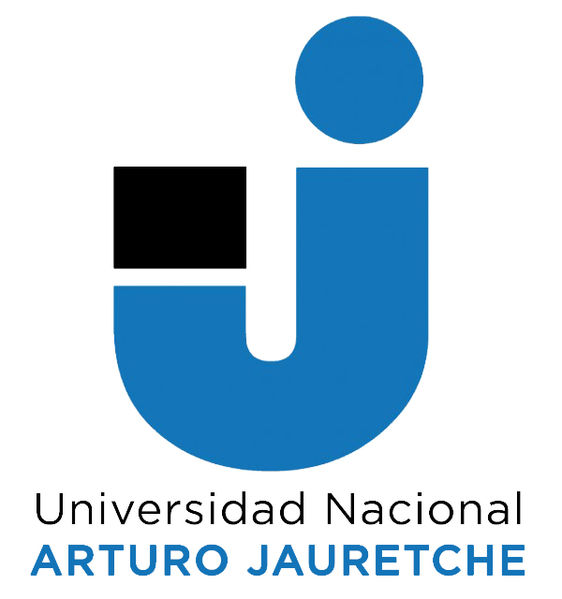
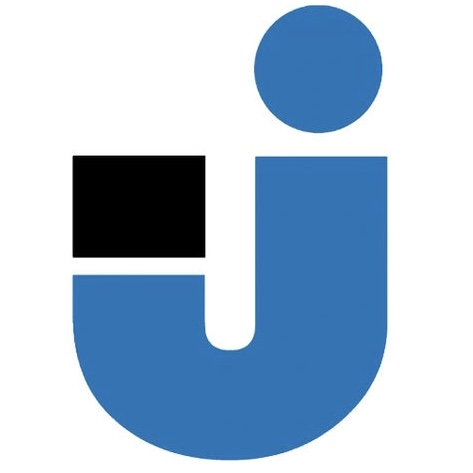
replace template by the education component

diff --git a/src/constants/index.js b/src/constants/index.js
@@ -15,15 +15,13 @@ import {
   git,
   figma,
   docker,
-  meta,
-  starbucks,
-  tesla,
-  shopify,
   carrent,
   jobit,
   tripguide,
   threejs,
-  Unaj,
+  unaj,
+  educacionit,
+  p5,
 } from "../assets";
 
 export const navLinks = [
@@ -115,85 +113,35 @@ const technologies = [
   },
 ];
 
-const experiences = [
+const formation = [
   {
-    title: "React.js Developer",
-    company_name: "Starbucks",
-    icon: Unaj,
-    iconBg: "#383E56",
-    date: "March 2020 - April 2021",
+    title: "Fullstack Developer",
+    company_name: "Plataforma 5",
+    icon: p5,
+    iconBg: "#ffff",
     points: [
-      "Developing and maintaining web applications using React.js and other related technologies.",
-      "Collaborating with cross-functional teams including designers, product managers, and other developers to create high-quality products.",
-      "Implementing responsive design and ensuring cross-browser compatibility.",
-      "Participating in code reviews and providing constructive feedback to other developers.",
+      " JavaScript Coding Bootcamp (+800 horas).",
+      "Pair programming, proyectos individuales y grupales, círculos de trabajo de habilidades blandas.",
+      "Práctica profesional con una empresa real aplicando SCRUM y cumpliendo Sprints semanales.",
     ],
   },
   {
-    title: "React Native Developer",
-    company_name: "Tesla",
-    icon: tesla,
-    iconBg: "#E6DEDD",
-    date: "Jan 2021 - Feb 2022",
+    title: "JavaScript + ReactJs",
+    company_name: "EducaciónIT",
+    icon: educacionit,
+    iconBg: "#ffff",
     points: [
-      "Developing and maintaining web applications using React.js and other related technologies.",
-      "Collaborating with cross-functional teams including designers, product managers, and other developers to create high-quality products.",
-      "Implementing responsive design and ensuring cross-browser compatibility.",
-      "Participating in code reviews and providing constructive feedback to other developers.",
+      "Curso de ReactJs.",
+      "Curso de JavaScript Avanzado.",
+      "Curso de Introducción a JavaScript.",
     ],
   },
   {
-    title: "Web Developer",
-    company_name: "Shopify",
-    icon: shopify,
-    iconBg: "#383E56",
-    date: "Jan 2022 - Jan 2023",
-    points: [
-      "Developing and maintaining web applications using React.js and other related technologies.",
-      "Collaborating with cross-functional teams including designers, product managers, and other developers to create high-quality products.",
-      "Implementing responsive design and ensuring cross-browser compatibility.",
-      "Participating in code reviews and providing constructive feedback to other developers.",
-    ],
-  },
-  {
-    title: "Full stack Developer",
-    company_name: "Meta",
-    icon: meta,
-    iconBg: "#E6DEDD",
-    date: "Jan 2023 - Present",
-    points: [
-      "Developing and maintaining web applications using React.js and other related technologies.",
-      "Collaborating with cross-functional teams including designers, product managers, and other developers to create high-quality products.",
-      "Implementing responsive design and ensuring cross-browser compatibility.",
-      "Participating in code reviews and providing constructive feedback to other developers.",
-    ],
-  },
-];
-
-const testimonials = [
-  {
-    testimonial:
-      "I thought it was impossible to make a website as beautiful as our product, but Rick proved me wrong.",
-    name: "Sara Lee",
-    designation: "CFO",
-    company: "Acme Co",
-    image: "https://randomuser.me/api/portraits/women/4.jpg",
-  },
-  {
-    testimonial:
-      "I've never met a web developer who truly cares about their clients' success like Rick does.",
-    name: "Chris Brown",
-    designation: "COO",
-    company: "DEF Corp",
-    image: "https://randomuser.me/api/portraits/men/5.jpg",
-  },
-  {
-    testimonial:
-      "After Rick optimized our website, our traffic increased by 50%. We can't thank them enough!",
-    name: "Lisa Wang",
-    designation: "CTO",
-    company: "456 Enterprises",
-    image: "https://randomuser.me/api/portraits/women/6.jpg",
+    title: "Estudios de Grado",
+    company_name: "Universidad Nacional Arturo Jauretche",
+    icon: unaj,
+    iconBg: "#ffff",
+    points: ["Actualmente cursando la carrera de Ingeniería en Informática."],
   },
 ];
 
@@ -263,4 +211,4 @@ const projects = [
   },
 ];
 
-export { services, technologies, experiences, testimonials, projects };
+export { services, technologies, formation, projects };

diff --git a/src/components/Education.jsx b/src/components/Education.jsx
@@ -4,15 +4,13 @@ import {
   VerticalTimelineElement,
 } from "react-vertical-timeline-component";
 import { motion } from "framer-motion";
-
 import "react-vertical-timeline-component/style.min.css";
-
 import { styles } from "../styles";
-import { experiences } from "../constants";
+import { formation } from "../constants";
 import { SectionWrapper } from "../hoc";
 import { textVariant } from "../utils/motion";
 
-const ExperienceCard = ({ experience }) => {
+const FormationCard = ({ formation }) => {
   return (
     <VerticalTimelineElement
       contentStyle={{
@@ -20,32 +18,31 @@ const ExperienceCard = ({ experience }) => {
         color: "#fff",
       }}
       contentArrowStyle={{ borderRight: "7px solid  #232631" }}
-      date={experience.date}
-      iconStyle={{ background: experience.iconBg }}
+      iconStyle={{ background: formation.iconBg }}
       icon={
         <div className="flex justify-center items-center w-full h-full">
           <img
-            src={experience.icon}
-            alt={experience.company_name}
+            src={formation.icon}
+            alt={formation.company_name}
             className="w-[60%] h-[60%] object-contain"
           />
         </div>
       }
     >
       <div>
-        <h3 className="text-white text-[24px] font-bold">{experience.title}</h3>
+        <h3 className="text-white text-[24px] font-bold">{formation.title}</h3>
         <p
           className="text-secondary text-[16px] font-semibold"
           style={{ margin: 0 }}
         >
-          {experience.company_name}
+          {formation.company_name}
         </p>
       </div>
 
       <ul className="mt-5 list-disc ml-5 space-y-2">
-        {experience.points.map((point, index) => (
+        {formation.points.map((point, index) => (
           <li
-            key={`experience-point-${index}`}
+            key={`formation-point-${index}`}
             className="text-white-100 text-[14px] pl-1 tracking-wider"
           >
             {point}
@@ -56,7 +53,7 @@ const ExperienceCard = ({ experience }) => {
   );
 };
 
-const Experience = () => {
+const Formation = () => {
   return (
     <>
       <motion.div variants={textVariant()}>
@@ -65,11 +62,8 @@ const Experience = () => {
 
       <div className="mt-20 flex flex-col">
         <VerticalTimeline>
-          {experiences.map((experience, index) => (
-            <ExperienceCard
-              key={`experience-${index}`}
-              experience={experience}
-            />
+          {formation.map((formation, index) => (
+            <FormationCard key={`formation-${index}`} formation={formation} />
           ))}
         </VerticalTimeline>
       </div>
@@ -77,4 +71,4 @@ const Experience = () => {
   );
 };
 
-export default SectionWrapper(Experience, "experience");
+export default SectionWrapper(Formation, "formation");

diff --git a/src/components/About.jsx b/src/components/About.jsx
@@ -38,17 +38,20 @@ const About = () => {
   return (
     <>
       <motion.div variants={textVariant()}>
-        <h2 className={styles.sectionHeadText}>Sobre mí</h2>
+        <h2 className={`${styles.sectionHeadText} text-center`}>Sobre mí</h2>
       </motion.div>
 
       <motion.p
         variants={fadeIn("", "", 0.1, 1)}
-        className="mt-2 text-secondary text-[17px] max-w-3xl leading-[30px]"
+        className="mt-2 text-secondary text-[17px]  leading-[30px] text-center"
       >
-        Soy Desarrollador Fullstack y estudiante de Ingeniería en Informática.
-        Tengo conocimientos de JavaScript, React, Node y Next.js. Me interesa
-        aprender nuevas tecnologías y trabajar en ámbitos amenos y ágiles con
-        profesionales de primer nivel. Gracias por visitar mi Portfolio!
+        Como desarrollador Full Stack, mi objetivo es generar software de alta
+        calidad que satisfaga las necesidades de los usuarios y supere sus
+        expectativas. Ya sea creando una nueva aplicación desde cero o mejorando
+        una existente, siempre estoy dispuesto a asumir nuevos desafíos y
+        aprender nuevas tecnologías para mejorar mis habilidades y estar al día
+        con las últimas tendencias de la industria. Gracias por visitar mi
+        Portfolio!
       </motion.p>
 
       <div className="mt-10 flex flex-wrap gap-10">

diff --git a/src/components/index.js b/src/components/index.js
@@ -1,24 +1,29 @@
-import { EarthCanvas, BallCanvas, ComputersCanvas, StarsCanvas } from './canvas';
-import Hero from './Hero';
-import Navbar from './Navbar';
-import About from './About';
-import Tech from './Tech';
-import Experience from './Experience';
-import Works from './Works';
-import Feedbacks from './Feedbacks';
-import Contact from './Contact';
+import {
+  EarthCanvas,
+  BallCanvas,
+  ComputersCanvas,
+  StarsCanvas,
+} from "./canvas";
+import Hero from "./Hero";
+import Navbar from "./Navbar";
+import About from "./About";
+import Tech from "./Tech";
+import Education from "./Education";
+import Works from "./Works";
+import Feedbacks from "./Feedbacks";
+import Contact from "./Contact";
 
 export {
   Hero,
   Navbar,
   About,
   Tech,
-  Experience,
+  Education,
   Works,
   Feedbacks,
   Contact,
-  EarthCanvas, 
-  BallCanvas, 
-  ComputersCanvas, 
-  StarsCanvas
-}
+  EarthCanvas,
+  BallCanvas,
+  ComputersCanvas,
+  StarsCanvas,
+};

diff --git a/src/assets/index.js b/src/assets/index.js
@@ -21,11 +21,9 @@ import tailwind from "./tech/tailwind.png";
 import typescript from "./tech/typescript.png";
 import threejs from "./tech/threejs.svg";
 
-import meta from "./company/meta.png";
-import shopify from "./company/shopify.png";
-import starbucks from "./company/starbucks.png";
-import tesla from "./company/tesla.png";
-import Unaj from "./company/Unaj.jpg";
+import unaj from "./company/unaj.jpg";
+import educacionit from "./company/educacionit.jpg";
+import p5 from "./company/p5.png";
 
 import carrent from "./carrent.png";
 import jobit from "./jobit.png";
@@ -53,12 +51,10 @@ export {
   tailwind,
   typescript,
   threejs,
-  meta,
-  shopify,
-  starbucks,
-  tesla,
   carrent,
   jobit,
   tripguide,
-  Unaj,
+  unaj,
+  educacionit,
+  p5,
 };

diff --git a/src/App.jsx b/src/App.jsx
@@ -2,7 +2,7 @@ import { BrowserRouter } from "react-router-dom";
 import {
   About,
   Contact,
-  Experience,
+  Education,
   Feedbacks,
   Hero,
   Navbar,
@@ -19,7 +19,7 @@ const App = () => {
           <Hero />
         </div>
         <About />
-        <Experience />
+        <Education />
         <Tech />
         <Works />
         <Feedbacks />
